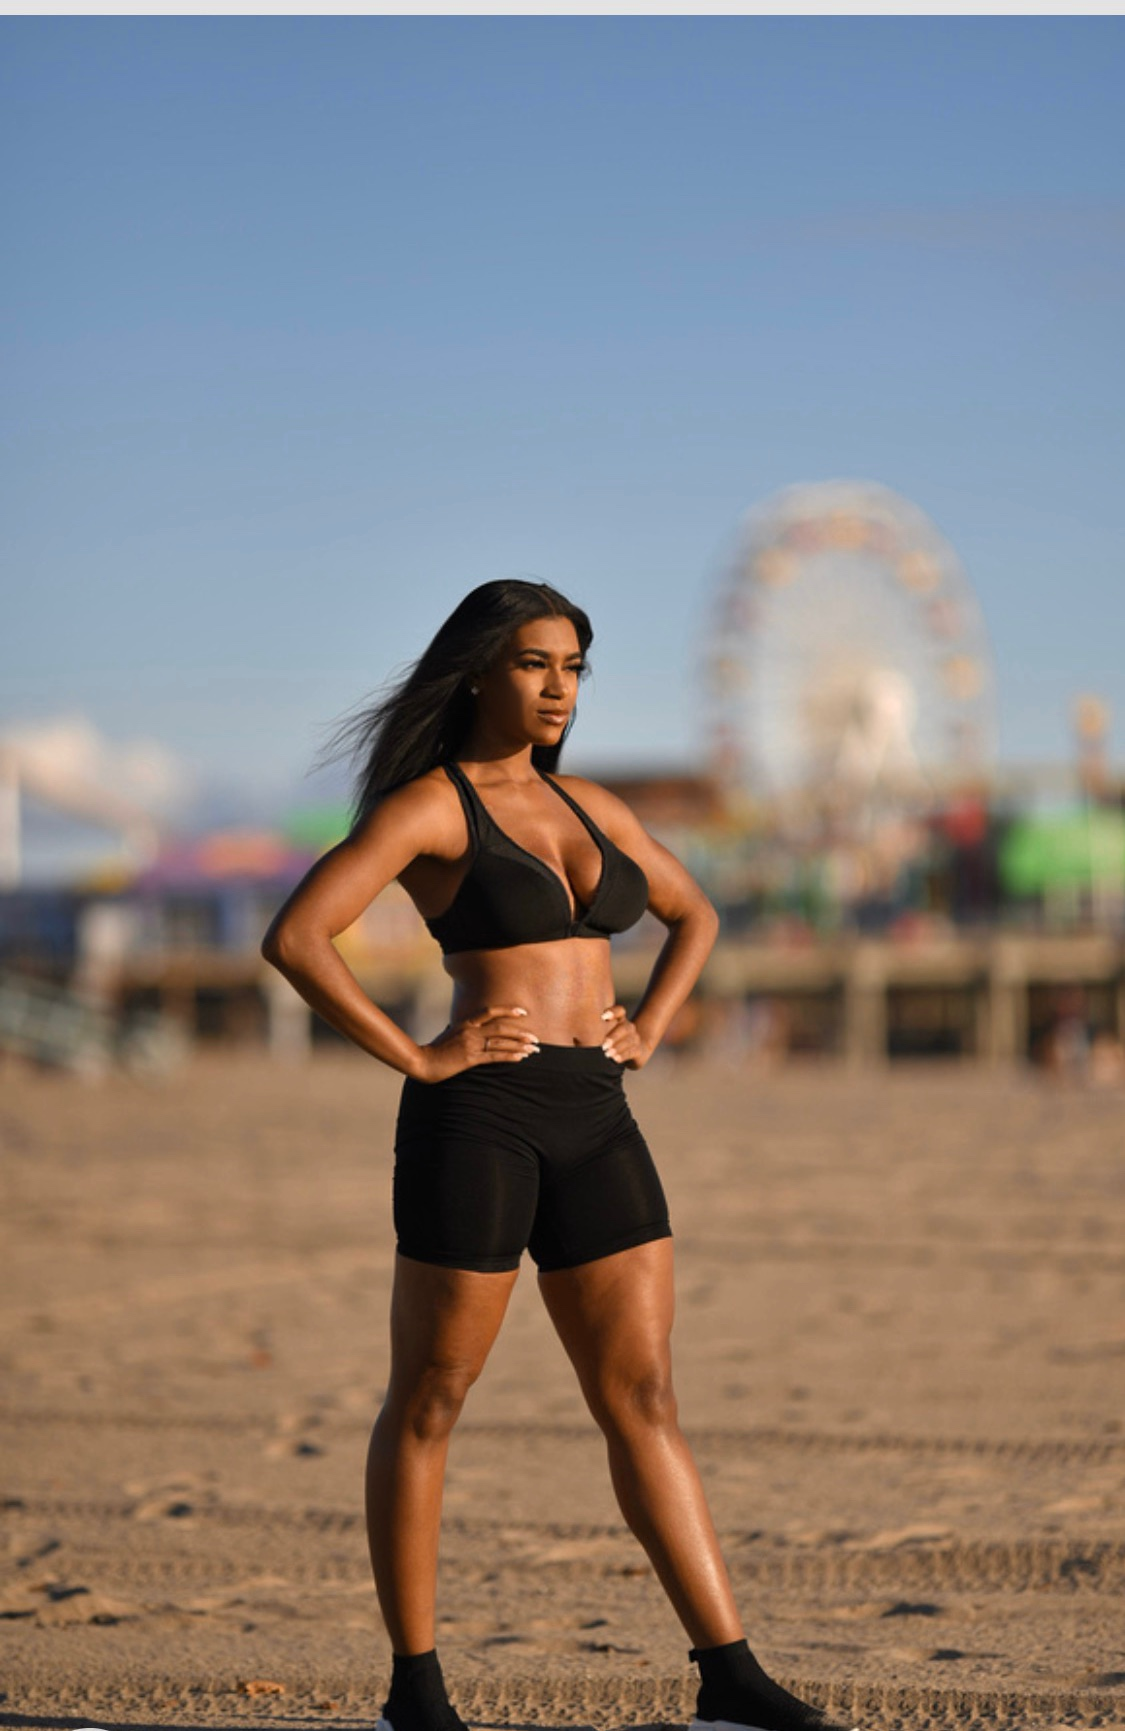
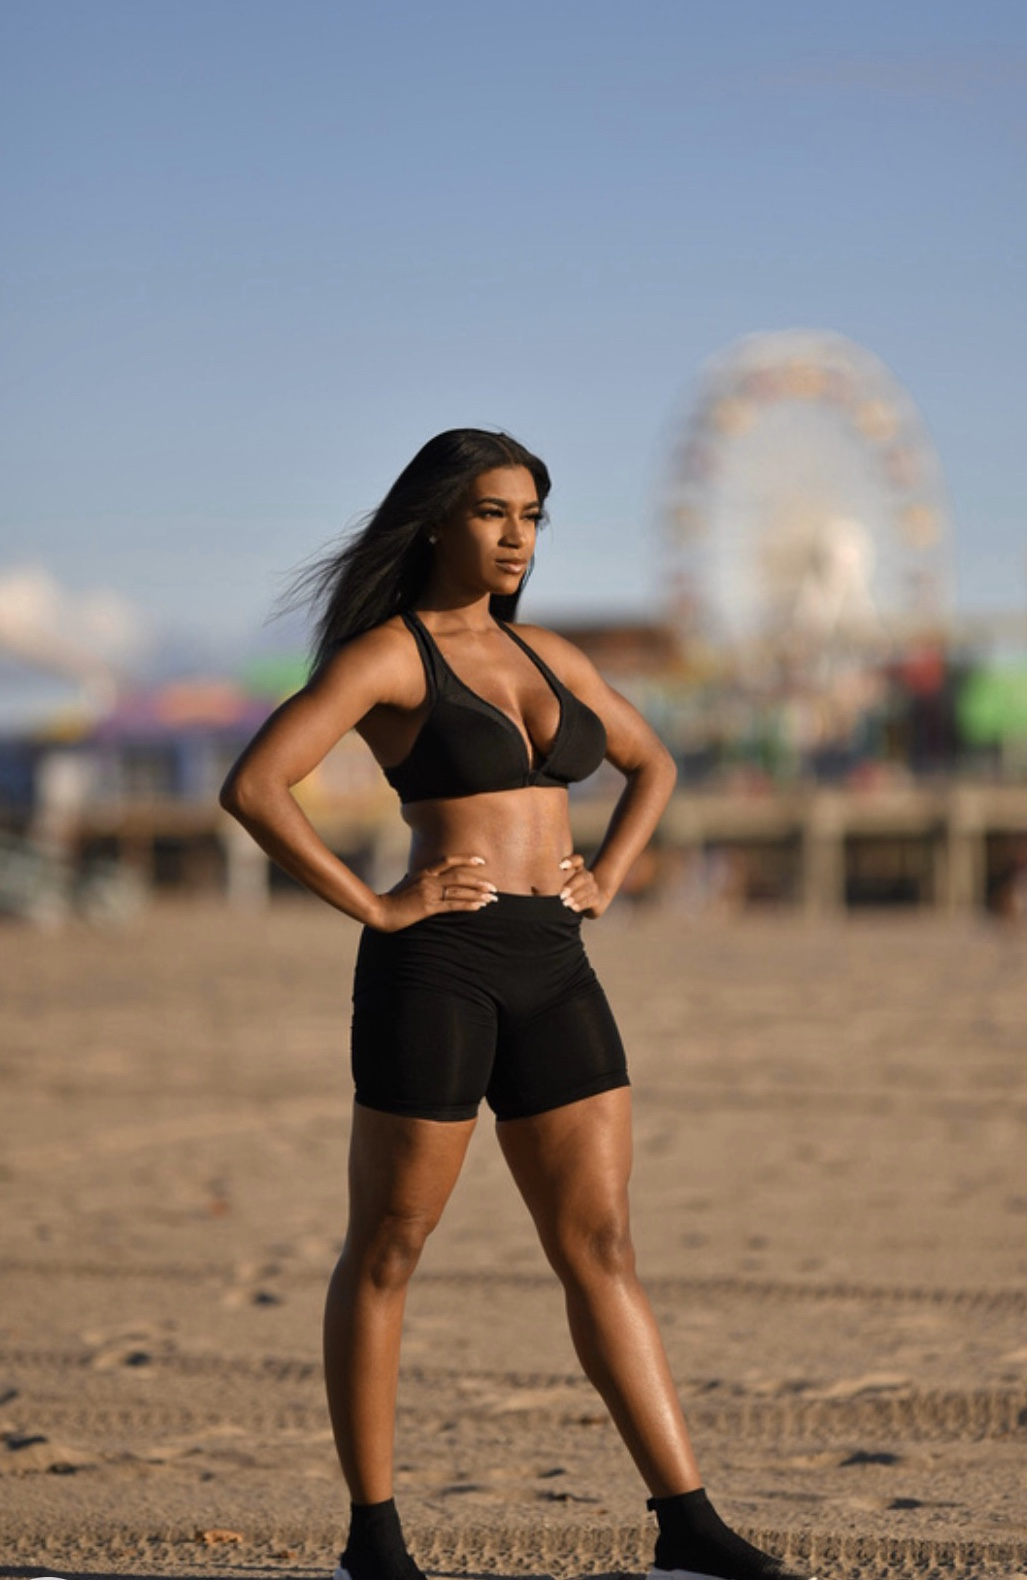
adding images1

diff --git a/index.html b/index.html
@@ -89,7 +89,7 @@
       <div class="col m6">
         <div class="card">
           <div class="card-image">
-            <img src='img/Facetune_24-03-2020-21-09-56.JPG' alt="">
+            <img src='img/Facetune_19-11-2019-20-27-29.JPG' alt="">
             <span class="card-title">GET FIT</span>
             <a href="#abstract2" class="btn-floating halfway-fab waves-effect waves-light red modal-trigger"><i
                 class="material-icons">add</i></a>

diff --git a/scss/main.scss b/scss/main.scss
@@ -1,7 +1,7 @@
 @import "./materialize";
 
 // vars
-$header-bg: url(../img/Facetune_16-08-2019-11-12-41.jpg);
+$header-bg: url(../img/Facetune_24-03-2020-21-09-56.jpg);
 $header-height:100vh;
 // test color function
 @function set-text-color($color){
